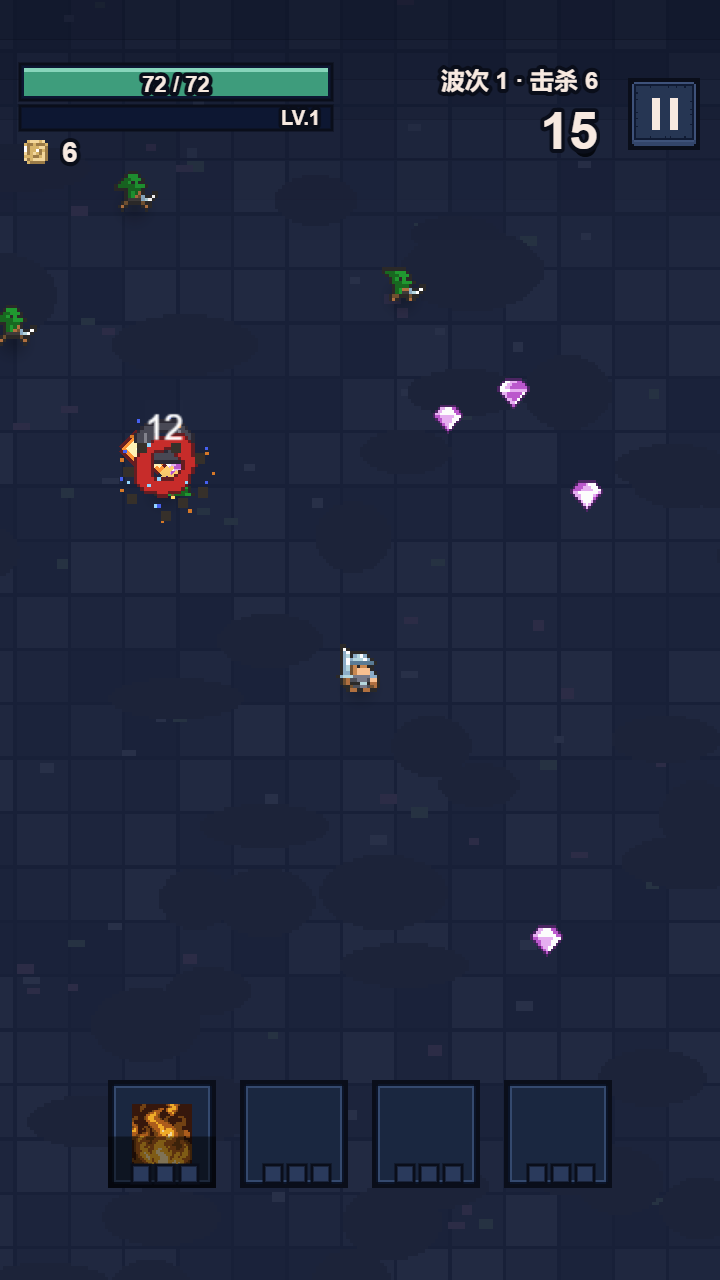
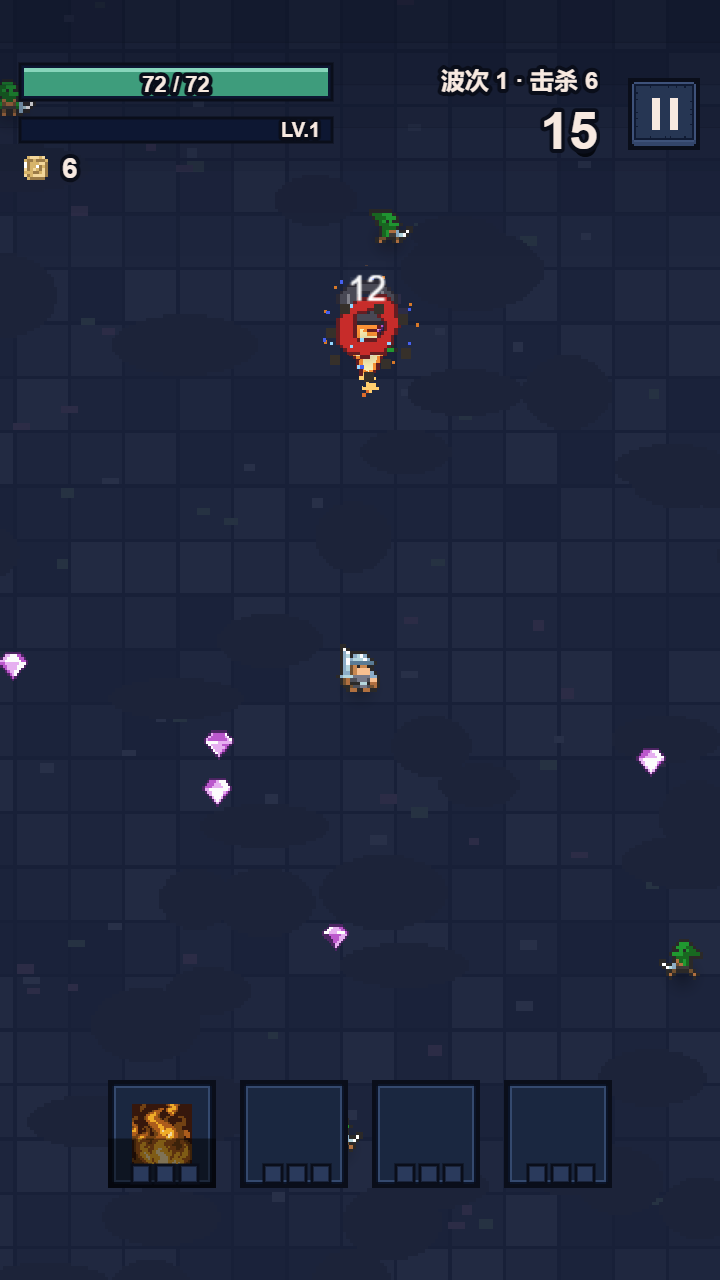
HUD：加大血条/经验间距 + 光晕同等加宽到 5px
用户反馈：太窄了，加大间距，再同等加大阴影宽度
- 经验条 S+25 → S+31（血条底边到经验条间距 3 → 9px）
- 金币 S+48 → S+56、BOSS 名字/血条 +8、顶部承载板 S+92 → S+100（整条链路顺延）
- 残血光晕 2.5 → 5px，四边仍等宽；光晕底边到经验条顶边仍留 4px
- 三档视口截图重拍

diff --git a/cocos/assets/scripts/ui/Hud.ts b/cocos/assets/scripts/ui/Hud.ts
@@ -89,7 +89,7 @@ export class Hud {
     this.hurtOp.opacity = 0;
 
     // ── 顶部承载板：渐隐色带（不盖战斗区，只托住数字）──
-    const PLATE = S + 92;
+    const PLATE = S + 100;
     const plate = mkNode(this.root, 'topPlate', VW, PLATE, 0, VH / 2 - PLATE / 2);
     const pg = plate.addComponent(Graphics);
     const BANDS = 6, bh = PLATE / BANDS;
@@ -112,13 +112,13 @@ export class Hud {
 
     // ── 经验 156×12，LV 贴右端 ──
     const XP_H = 12;
-    p = at(10 + HP_W / 2, S + 25 + XP_H / 2);
+    p = at(10 + HP_W / 2, S + 31 + XP_H / 2);
     this.expBar = gradBar(this.root, p.x, p.y, HP_W, XP_H, { dir: 'h', from: C_XP_TOP, to: C_XP_BOT, line: COL.line });
     this.lvText = text(this.root, at(10 + HP_W - 5, 0).x, p.y, 'LV.1',
       { size: 10, color: COL.cream, align: 'right', width: 52, bold: true, outline: true });
 
     // ── 金币：16 图标 + 14px 数值 ──
-    const gy = S + 48;
+    const gy = S + 56;
     const coinC = at(18, gy);
     const coin = mkNode(this.root, 'coin', 16, 16, coinC.x, coinC.y);
     const cs = coin.addComponent(Sprite);
@@ -149,7 +149,7 @@ export class Hud {
     if (onPause) onTap(hit, onPause);
 
     // ── BOSS：名字 S+64 / 血条 336×12 @S+80（无 BOSS 不占位）──
-    this.bossBox = mkNode(this.root, 'bossBox', 336, 34, at(180, S + 72).x, at(0, S + 72).y);
+    this.bossBox = mkNode(this.root, 'bossBox', 336, 34, at(180, S + 80).x, at(0, S + 80).y);
     this.bossName = text(this.bossBox, -166, 8, '', { size: 11, color: COL.accent, align: 'left', width: 330, bold: true, outline: true });
     this.bossBar = gradBar(this.bossBox, 0, -7, 336, 12, {
       dir: 'h', from: new Color(255, 122, 60), to: COL.red, line: COL.line,
@@ -214,7 +214,7 @@ export class Hud {
         // 血条外圈光晕：**四边等宽**（用户 2026-10-29 第三轮反馈：上左右比下宽，看着不对齐）
         //   · 宽度统一 2.5px —— 上限由经验条决定：血条底边到经验条顶边只有 3px
         //   · 两层：外圈 2.5px（淡）+ 内圈 1.1px（浓），叠出"边缘实、往外化开"的效果
-        const W = 156, H = 18, GLOW = 2.5;
+        const W = 156, H = 18, GLOW = 5;
         this.hpWarn.fillColor = new Color(214, 88, 106, 38);
         this.hpWarn.roundRect(-W / 2 - GLOW, -H / 2 - GLOW, W + GLOW * 2, H + GLOW * 2, 7);
         this.hpWarn.fill();

diff --git a/docs/ui-redesign/ui_visual_m2.md b/docs/ui-redesign/ui_visual_m2.md
@@ -65,6 +65,10 @@
 - **第三轮反馈（同一天）**："上左右比下宽，不对齐" → 改为**四边等宽 2.5px**（上限由经验条决定：
   血条底边到经验条顶边只有 3px）。实现为两层同心圆角矩形（外 2.5px / alpha 38，内 1.1px / alpha 92），
   均匀贴合血条四周，不再压经验条。
+- **第四轮反馈（同一天）**："太窄了，加大血条与经验条间距，再同等加大阴影宽度" →
+  - 经验条 S+25 → **S+31**（与血条底边的间距 3 → 9px）；
+  - 金币 S+48 → S+56、BOSS 名字/血条 +8、顶部承载板 S+92 → **S+100**（整条链路顺延，保持原有相对间距）；
+  - 光晕 **2.5 → 5px**，四边仍然等宽；血条底边 +5 与经验条顶边仍留 4px 空隙。
 - 可调参数集中在 `Hud.sync()` 的 `GLOW / alpha / color`；截图见 `m2/360x640-hud-lowhp-boss.png`。
 
 ## 4. 未验证 / 风险
